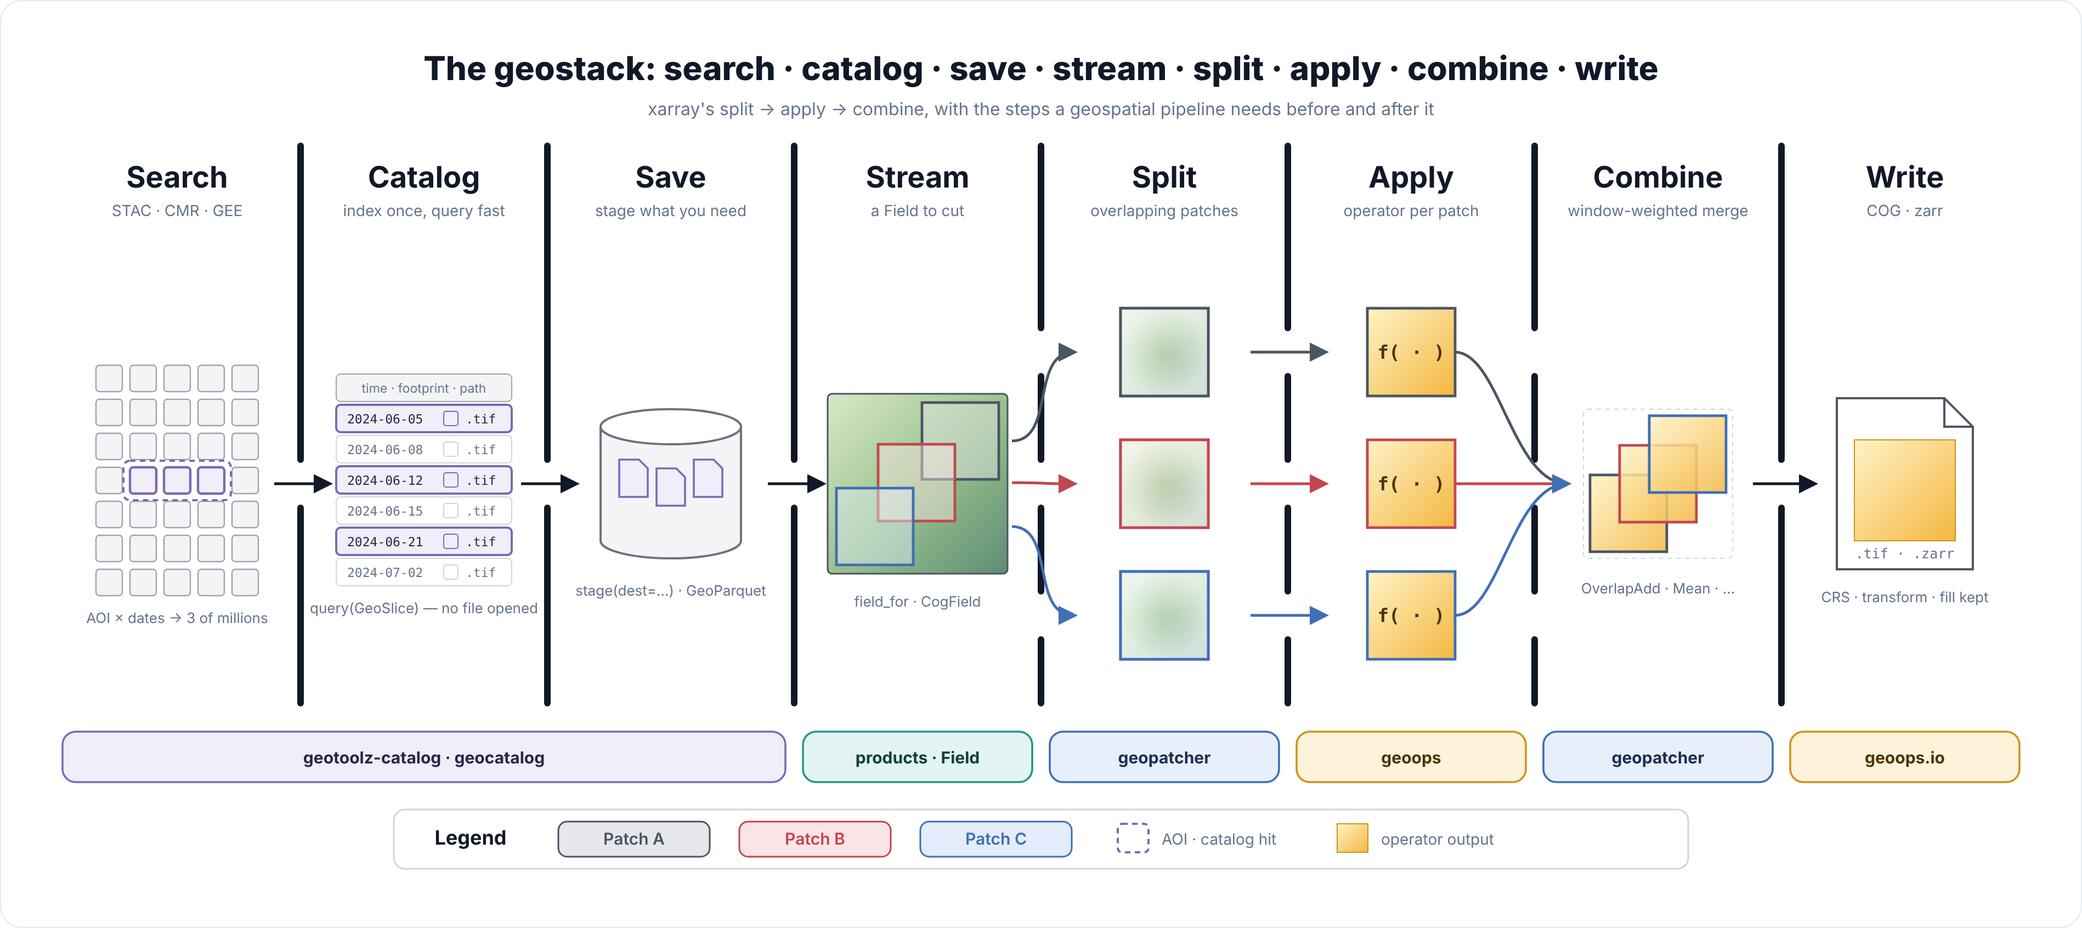
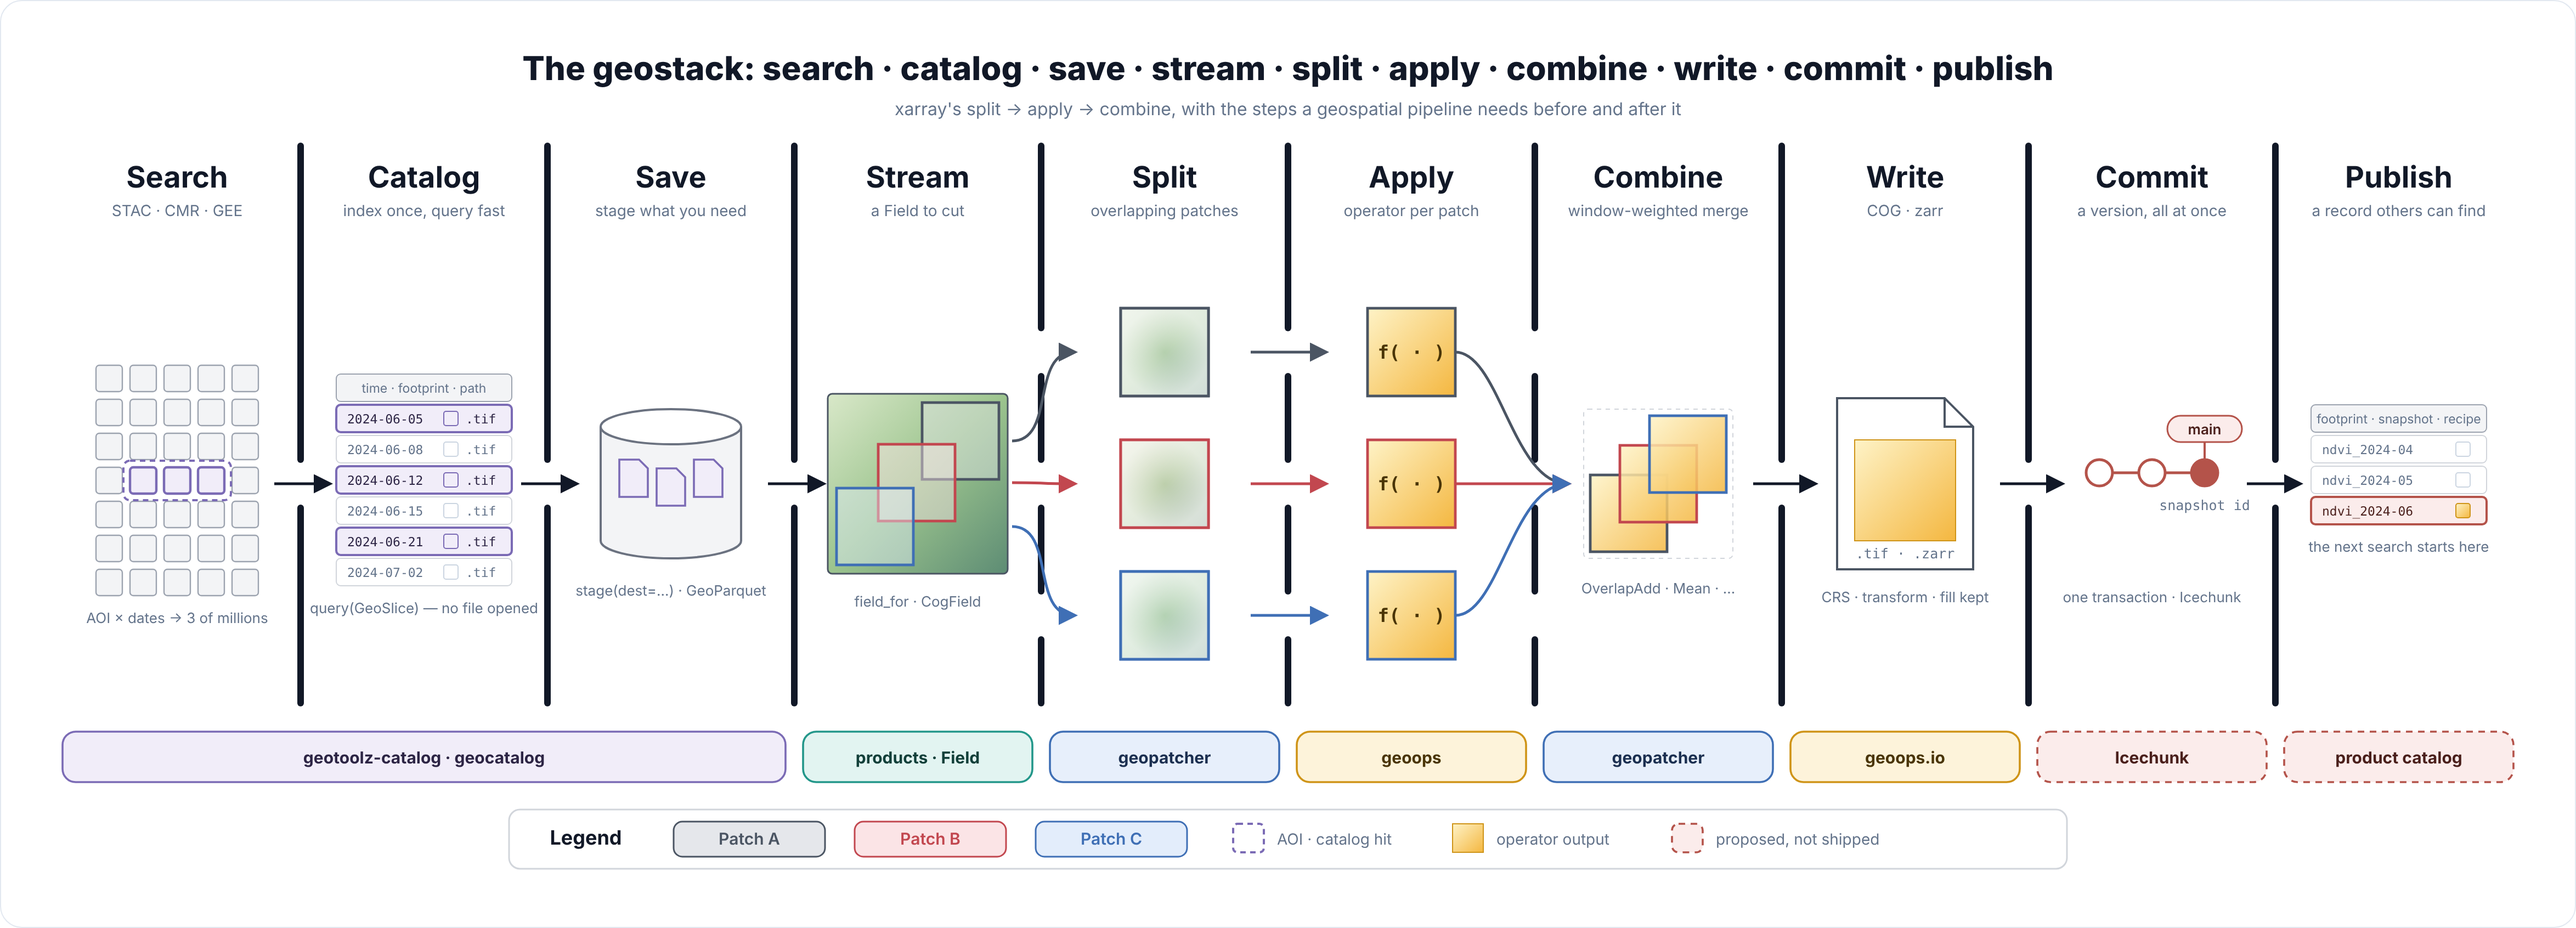
docs: add proposed commit and publish stages to the intro diagram (#676)
The stage-by-stage figure gains two dashed columns after write: commit
the result as a version (#665) and publish a record of it to a product
catalog (#671). README and docs index say they are proposed.

Claude-Session: https://claude.ai/code/session_01SfgMxcF5m9Vcmj3u8kScce

Changed region(s): [[0.0311, 0.1537, 0.9636, 0.922], [0.1865, 0.0615, 0.8082, 0.1229], [0.1243, 0.7991, 0.2487, 0.8298]]

diff --git a/docs/assets/diagrams/geostack-intro.html b/docs/assets/diagrams/geostack-intro.html
@@ -12,14 +12,16 @@
 </head>
 <body>
 <div id="diagram">
-  <svg id="art" width="1840" height="790" viewBox="0 0 1840 790" xmlns="http://www.w3.org/2000/svg"></svg>
+  <svg id="art" width="2290" height="790" viewBox="0 0 2290 790" xmlns="http://www.w3.org/2000/svg"></svg>
 </div>
 <script>
 "use strict";
 // The xarray "split · apply · combine" figure, extended with the steps a
 // geospatial pipeline needs before and after it: search an archive,
 // index it, save what matters, stream it lazily — then split, apply,
-// combine, and write. Everything is drawn here so the PNG is reproducible.
+// combine, and write. Two proposed stages follow, drawn dashed: commit the
+// result as a version, and publish a record of it. Everything is drawn here
+// so the PNG is reproducible.
 const NS = "http://www.w3.org/2000/svg";
 const svg = document.getElementById("art");
 function el(tag, attrs, parent = svg) {
@@ -45,10 +47,11 @@ const PKG = {
   read: ["#23978a", "#e2f4f1", "#12403a"],
   cut: ["#3f6fb5", "#e7effb", "#1b2f50"],
   compute: ["#cf9418", "#fdf3da", "#4a3506"],
+  keep: ["#b4534a", "#fbeceb", "#4a1f1b"],
 };
 
 // ---- layout ---------------------------------------------------------
-const X0 = 20, CW = 225, NCOL = 8;
+const X0 = 20, CW = 225, NCOL = 10;
 const cx = (i) => X0 + CW * (i + 0.5);
 const edge = (i) => X0 + CW * i;               // left edge of column i
 const ROW = [292, 412, 532];                   // patch rows (split → combine)
@@ -62,6 +65,8 @@ const STAGES = [
   ["Apply", "operator per patch"],
   ["Combine", "window-weighted merge"],
   ["Write", "COG · zarr"],
+  ["Commit", "a version, all at once"],
+  ["Publish", "a record others can find"],
 ];
 
 // defs: arrowheads + window shading
@@ -84,9 +89,9 @@ el("stop", { offset: "0", "stop-color": "#fef3c7" }, lg2);
 el("stop", { offset: "1", "stop-color": "#f4b740" }, lg2);
 
 // ---- title ----------------------------------------------------------
-text(920, 44, "The geostack: search · catalog · save · stream · split · apply · combine · write",
+text(1145, 44, "The geostack: search · catalog · save · stream · split · apply · combine · write · commit · publish",
      { "font-size": 30, "font-weight": 800, fill: INK });
-text(920, 76, "xarray's split → apply → combine, with the steps a geospatial pipeline needs before and after it",
+text(1145, 76, "xarray's split → apply → combine, with the steps a geospatial pipeline needs before and after it",
      { "font-size": 16, fill: MUTED });
 
 // ---- column headings ------------------------------------------------
@@ -207,6 +212,36 @@ function patch(x, y, s, k, mode) {
   text(cx(7), y + h + 30, "CRS · transform · fill kept", { "font-size": 13, fill: MUTED });
 })();
 
+// ---- 9 · Commit (proposed): the write becomes a version --------------
+(() => {
+  const x = cx(8), y = MID - 10, gap = 48;
+  [-1, 0, 1].forEach((k) => {
+    if (k < 1) el("line", { x1: x + k * gap + 12, y1: y, x2: x + (k + 1) * gap - 12, y2: y, stroke: PKG.keep[0], "stroke-width": 2.5 });
+    el("circle", { cx: x + k * gap, cy: y, r: 12, fill: k === 1 ? PKG.keep[0] : "#ffffff", stroke: PKG.keep[0], "stroke-width": 2.5 });
+  });
+  el("rect", { x: x + gap - 34, y: y - 52, width: 68, height: 24, rx: 12, fill: PKG.keep[1], stroke: PKG.keep[0], "stroke-width": 1.5 });
+  text(x + gap, y - 35, "main", { "font-size": 13, "font-weight": 600, fill: PKG.keep[2] });
+  el("line", { x1: x + gap, y1: y - 28, x2: x + gap, y2: y - 13, stroke: PKG.keep[0], "stroke-width": 2 });
+  text(x + gap, y + 34, "snapshot id", { "font-size": 12.5, class: "mono", fill: MUTED });
+  text(x, y + 118, "one transaction · Icechunk", { "font-size": 13, fill: MUTED });
+})();
+
+// ---- 10 · Publish (proposed): one row in a product catalog ----------
+(() => {
+  const w = 160, h = 25, x0 = cx(9) - w / 2, y0 = MID - 72;
+  el("rect", { x: x0, y: y0, width: w, height: h, rx: 4, fill: "#f3f4f6", stroke: "#9ca3af" });
+  text(x0 + w / 2, y0 + 17, "footprint · snapshot · recipe", { "font-size": 11.5, fill: MUTED });
+  ["ndvi_2024-04", "ndvi_2024-05", "ndvi_2024-06"].forEach((d, k) => {
+    const hit = k === 2;
+    const y = y0 + (k + 1) * (h + 3);
+    el("rect", { x: x0, y, width: w, height: h, rx: 4, fill: hit ? PKG.keep[1] : "#ffffff",
+                 stroke: hit ? PKG.keep[0] : "#d1d5db", "stroke-width": hit ? 2 : 1 });
+    text(x0 + 10, y + 17, d, { "font-size": 11.5, "text-anchor": "start", class: "mono", fill: hit ? PKG.keep[2] : MUTED });
+    el("rect", { x: x0 + 132, y: y + 6, width: 13, height: 13, rx: 2, fill: hit ? "url(#result)" : "none", stroke: hit ? "#cf9418" : "#cbd5e1" });
+  });
+  text(cx(9), y0 + 4 * (h + 3) + 22, "the next search starts here", { "font-size": 13, fill: MUTED });
+})();
+
 // ---- arrows ---------------------------------------------------------
 for (let i = 1; i <= 3; i++) arrow(edge(i) - 24, MID, edge(i) + 26, MID);
 // stream → split: one per window/patch, fanning out
@@ -223,12 +258,15 @@ for (let i = 1; i <= 3; i++) arrow(edge(i) - 24, MID, edge(i) + 26, MID);
                stroke: KEY[k].stroke, "stroke-width": 2.5, "marker-end": `url(#ah-${k})` });
 });
 arrow(edge(7) - 26, MID, edge(7) + 30, MID);
+arrow(edge(8) - 26, MID, edge(8) + 30, MID);
+arrow(edge(9) - 26, MID, edge(9) + 22, MID);
 
 // ---- package band ---------------------------------------------------
-function band(i0, i1, key, label) {
+function band(i0, i1, key, label, proposed = false) {
   const [stroke, fill, ink] = PKG[key];
   const x = edge(i0) + 8, w = CW * (i1 - i0 + 1) - 16;
-  el("rect", { x, y: 638, width: w, height: 46, rx: 12, fill, stroke, "stroke-width": 1.8 });
+  const dash = proposed ? { "stroke-dasharray": "6 5" } : {};
+  el("rect", { x, y: 638, width: w, height: 46, rx: 12, fill, stroke, "stroke-width": 1.8, ...dash });
   text(x + w / 2, 667, label, { "font-size": 15, "font-weight": 700, fill: ink });
 }
 band(0, 2, "find", "geotoolz-catalog  ·  geocatalog");
@@ -237,21 +275,25 @@ band(4, 4, "cut", "geopatcher");
 band(5, 5, "compute", "geoops");
 band(6, 6, "cut", "geopatcher");
 band(7, 7, "compute", "geoops.io");
+band(8, 8, "keep", "Icechunk", true);
+band(9, 9, "keep", "product catalog", true);
 
 // ---- legend ---------------------------------------------------------
 (() => {
   const y = 735;
-  el("rect", { x: 330, y: y - 26, width: 1180, height: 54, rx: 10, fill: "#ffffff", stroke: "#d1d5db", "stroke-width": 1.5 });
-  text(400, y + 6, "Legend", { "font-size": 18, "font-weight": 700, fill: INK });
+  el("rect", { x: 435, y: y - 26, width: 1420, height: 54, rx: 10, fill: "#ffffff", stroke: "#d1d5db", "stroke-width": 1.5 });
+  text(505, y + 6, "Legend", { "font-size": 18, "font-weight": 700, fill: INK });
   [["A", "Patch A"], ["B", "Patch B"], ["C", "Patch C"]].forEach(([k, lab], j) => {
-    const x = 480 + j * 165;
+    const x = 585 + j * 165;
     el("rect", { x, y: y - 15, width: 138, height: 32, rx: 8, fill: KEY[k].fill, stroke: KEY[k].stroke, "stroke-width": 1.5 });
     text(x + 69, y + 6, lab, { "font-size": 15, fill: KEY[k].stroke, "font-weight": 600 });
   });
-  el("rect", { x: 990, y: y - 13, width: 28, height: 26, rx: 4, fill: "none", stroke: PKG.find[0], "stroke-width": 2, "stroke-dasharray": "5 4" });
-  text(1030, y + 6, "AOI · catalog hit", { "font-size": 14, "text-anchor": "start", fill: MUTED });
-  el("rect", { x: 1190, y: y - 13, width: 28, height: 26, fill: "url(#result)", stroke: "#cf9418" });
-  text(1230, y + 6, "operator output", { "font-size": 14, "text-anchor": "start", fill: MUTED });
+  el("rect", { x: 1095, y: y - 13, width: 28, height: 26, rx: 4, fill: "none", stroke: PKG.find[0], "stroke-width": 2, "stroke-dasharray": "5 4" });
+  text(1135, y + 6, "AOI · catalog hit", { "font-size": 14, "text-anchor": "start", fill: MUTED });
+  el("rect", { x: 1295, y: y - 13, width: 28, height: 26, fill: "url(#result)", stroke: "#cf9418" });
+  text(1335, y + 6, "operator output", { "font-size": 14, "text-anchor": "start", fill: MUTED });
+  el("rect", { x: 1495, y: y - 13, width: 28, height: 26, rx: 6, fill: PKG.keep[1], stroke: PKG.keep[0], "stroke-width": 1.8, "stroke-dasharray": "6 5" });
+  text(1535, y + 6, "proposed, not shipped", { "font-size": 14, "text-anchor": "start", fill: MUTED });
 })();
 
 document.body.dataset.ready = "1";

diff --git a/README.md b/README.md
@@ -18,7 +18,7 @@
 > packages that interlock end-to-end, with the Operator / Sequential / Graph
 > composition core supplied by [pipekit](https://github.com/jejjohnson/pipekit).
 
-<p align="center"><img src="docs/assets/diagrams/geostack-intro.png" alt="The geostack stage by stage: search an archive, catalog it, save what you need, stream windows lazily, split into overlapping patches, apply an operator per patch, combine with a window-weighted merge, write a COG or zarr" width="100%"></p>
+<p align="center"><img src="docs/assets/diagrams/geostack-intro.png" alt="The geostack stage by stage: search an archive, catalog it, save what you need, stream windows lazily, split into overlapping patches, apply an operator per patch, combine with a window-weighted merge, write a COG or zarr; two proposed stages, drawn dashed, commit the result as a version and publish a record of it" width="100%"></p>
 
 ## Where it comes from
 
@@ -32,6 +32,12 @@ lazy windows because the scene does not fit in memory. After you combine,
 you **write** a georeferenced result. Every step belongs to one package
 (the band under the figure), and neighbouring steps hand one another
 typed objects rather than file paths.
+
+Two further stages are proposed and drawn dashed: **commit** the result as
+a version that appears all at once
+([#665](https://github.com/jejjohnson/geotoolz/issues/665)), and **publish** a
+record of it to a product catalog, where the next search can find it
+([#671](https://github.com/jejjohnson/geotoolz/issues/671)).
 
 ## 30-second pitch
 

diff --git a/docs/index.md b/docs/index.md
@@ -5,7 +5,7 @@
 > Sequential / Graph composition core supplied by
 > [pipekit](https://github.com/jejjohnson/pipekit).
 
-![The geostack stage by stage: search an archive, catalog it, save what you need, stream windows lazily, split into overlapping patches, apply an operator per patch, combine with a window-weighted merge, write a COG or zarr](assets/diagrams/geostack-intro.png)
+![The geostack stage by stage: search an archive, catalog it, save what you need, stream windows lazily, split into overlapping patches, apply an operator per patch, combine with a window-weighted merge, write a COG or zarr; two proposed stages, drawn dashed, commit the result as a version and publish a record of it](assets/diagrams/geostack-intro.png)
 
 ## Where it comes from
 
@@ -17,6 +17,12 @@ Before you can split a scene you have to **search** an archive for it,
 crawl, **save** (stage) only the files that matter, and **stream** them as
 lazy windows because the scene does not fit in memory. After you combine,
 you **write** a georeferenced result.
+
+Two further stages are proposed and drawn dashed: **commit** the result as
+a version that appears all at once
+([#665](https://github.com/jejjohnson/geotoolz/issues/665)), and **publish** a
+record of it to a product catalog, where the next search can find it
+([#671](https://github.com/jejjohnson/geotoolz/issues/671)).
 
 Most codebases rebuild that loop per project, so every step is hard-wired
 to the next. The geostack gives each step its own package and one small,
